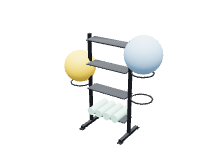
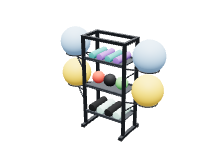
v2.24.0: 짐볼·폼롤러 거치대 새 모델(겹침 없음), 3D 기본 화면 WASD·방향키 이동, 기둥을 공간 단계로, 건물 밖 바닥 10종 추가, 슬라이더 끝까지 채움, 색 조명 밝기 보정·빛 번짐

Changed region(s): [[0.2727, 0.1515, 0.7636, 0.8788]]

diff --git a/js/ui.js b/js/ui.js
@@ -13,7 +13,7 @@ const IC = GP.IC = {
   select: sv('<path d="m4 3 7 17 2.5-7.5L21 10z"/>'), multi: sv('<rect x="3" y="3" width="8" height="8" rx="1.5"/><rect x="13" y="13" width="8" height="8" rx="1.5"/><path d="M13 7h4v4M7 13v4h4" stroke-dasharray="2 2"/>'),
   vertex: sv('<path d="M4 18 9 5l10 3-3 11z"/><circle cx="4" cy="18" r="1.8" fill="currentColor"/><circle cx="9" cy="5" r="1.8" fill="currentColor"/><circle cx="19" cy="8" r="1.8" fill="currentColor"/><circle cx="16" cy="19" r="1.8" fill="currentColor"/>'),
   wall: sv('<path d="M3 20V9h8v11M11 20V4h10v16"/><path d="M3 20h18"/>'), door: sv('<path d="M5 21V4h9v17"/><path d="M14 6a9 9 0 0 1 5 8"/><path d="M3 21h18"/><circle cx="11.5" cy="13" r=".8" fill="currentColor"/>'),
-  room: sv('<rect x="3" y="4" width="18" height="16" rx="1.5"/><path d="M7 9h6M7 13h4"/>'), ruler: sv('<path d="m3 17 14-14 4 4L7 21z"/><path d="m7 13 2 2M10 10l2 2M13 7l2 2"/>'), note: sv('<path d="M5 3h10l4 4v14H5z"/><path d="M15 3v4h4M8 12h8M8 16h5"/>'),
+  room: sv('<rect x="3" y="4" width="18" height="16" rx="1.5"/><path d="M7 9h6M7 13h4"/>'), pillar: sv('<rect x="8" y="4" width="8" height="16" rx=".8"/><path d="M5 20h14M5 4h14"/>'), ruler: sv('<path d="m3 17 14-14 4 4L7 21z"/><path d="m7 13 2 2M10 10l2 2M13 7l2 2"/>'), note: sv('<path d="M5 3h10l4 4v14H5z"/><path d="M15 3v4h4M8 12h8M8 16h5"/>'),
   fill: sv('<path d="M3 20h18"/><rect x="4" y="9" width="4" height="8"/><rect x="10" y="9" width="4" height="8"/><rect x="16" y="9" width="4" height="8"/><path d="M4 5h16" stroke-dasharray="2 2"/>'),
   matRect: sv('<rect x="3" y="5" width="18" height="14" rx="1"/><path d="M3 12h18M9 5v14M15 5v14"/>'), matPoly: sv('<path d="M4 19V8l6-4 10 4v11z"/><path d="M4 13h16M10 4v15M15 6v13"/>'),
   zone: sv('<rect x="3" y="4" width="18" height="16" rx="2" stroke-dasharray="3 3"/><path d="M8 12h8"/>'),
@@ -83,12 +83,19 @@ GP.tryOut = () => {
     undo() { if (!used) return; used = false; back(); LV.on = true; try { GP.changed('all', { commit: false }); } finally { LV.on = false; } },
   };
 };
+/* sliders: how far along the blue goes (CSS --f, 0..1) — kept up as they move, are drawn, or are set from code */
+const rFill = el => { const mn = +el.min || 0, mx = el.max === '' ? 100 : +el.max, v = +el.value; el.style.setProperty('--f', mx > mn ? Math.min(1, Math.max(0, (v - mn) / (mx - mn))) : 0); };
+GP.rangeFill = rFill;
+document.addEventListener('input', e => { if (e.target.type === 'range') rFill(e.target); }, true);
+document.addEventListener('change', e => { if (e.target.type === 'range') rFill(e.target); }, true);
+new MutationObserver(ms => { for (const m of ms) for (const n of m.addedNodes) if (n.nodeType === 1) { if (n.matches('input[type=range]')) rFill(n); else if (n.firstElementChild) n.querySelectorAll('input[type=range]').forEach(rFill); } }).observe(document.documentElement, { childList: true, subtree: true });
+document.addEventListener('DOMContentLoaded', () => document.querySelectorAll('input[type=range]').forEach(rFill));
 /* the number beside a slider: click it to type one (live too; beyond the slider's ends is fine) */
 document.addEventListener('click', e => {
   const b = e.target.closest('.rng > b'); if (!b || GP.viewOnly || b.parentElement.querySelector('.rng-in')) return; const r = b.parentElement.querySelector('input[type=range]'); if (!r || r.disabled) return;
   const v0 = r.value, inp = document.createElement('input'); inp.type = 'number'; inp.className = 'rng-in'; inp.step = r.step || 'any'; inp.value = r.value; inp.dataset.nolive = '';
   b.parentElement.appendChild(inp); b.style.visibility = 'hidden'; inp.focus(); inp.select(); let done = false;
-  const push = fin => { const v = parseFloat(inp.value); if (!isFinite(v)) return; if (v > +r.max) r.max = v; if (v < +r.min) r.min = v; r.value = v; r.dispatchEvent(new Event('input', { bubbles: true })); if (fin) r.dispatchEvent(new Event('change', { bubbles: true })); };
+  const push = fin => { const v = parseFloat(inp.value); if (!isFinite(v)) return; if (v > +r.max) r.max = v; if (v < +r.min) r.min = v; r.value = v; rFill(r); r.dispatchEvent(new Event('input', { bubbles: true })); if (fin) r.dispatchEvent(new Event('change', { bubbles: true })); };
   const end = ok => { if (done) return; done = true; if (!ok) { inp.value = v0; } push(true); inp.remove(); b.style.visibility = ''; };
   inp.addEventListener('input', () => { if (inp.value !== '' && !inp.validity.badInput) push(false); });
   inp.addEventListener('keydown', ev => { ev.stopPropagation(); if (ev.key === 'Enter') end(true); else if (ev.key === 'Escape') end(false); });
@@ -116,7 +123,7 @@ function cpkPaint(box, h, s, v, hex, k) {
   box.dataset.h = h; box.dataset.s = s; box.dataset.v = v; const sv = box.querySelector('.cpk-sv'), dot = sv.firstElementChild, hh = box.querySelector('.cpk-hue i'), hx = box.querySelector('.cpk-hex');
   sv.style.backgroundColor = `hsl(${h},100%,50%)`; dot.style.left = s * 100 + '%'; dot.style.top = (1 - v) * 100 + '%'; hh.style.left = h / 360 * 100 + '%';
   box.querySelector('.cpk-now').style.background = hex; if (document.activeElement !== hx) hx.value = hex.toUpperCase(); box.querySelector('.cpk-tag').textContent = k ? k + 'K' : '직접 고른 색';
-  const kr = box.querySelector('.cpk-kr'); if (kr) { if (k && document.activeElement !== kr) kr.value = k; const b = kr.parentElement.querySelector('b'); if (b) b.textContent = k ? k + 'K' : '—'; }
+  const kr = box.querySelector('.cpk-kr'); if (kr) { if (k && document.activeElement !== kr) { kr.value = k; rFill(kr); } const b = kr.parentElement.querySelector('b'); if (b) b.textContent = k ? k + 'K' : '—'; }
 }
 const cpkFire = (box, hex, live, k) => { const f = CPK.on[box.dataset.cpk]; if (!f || GP.viewOnly) return; LV.on = !!live; try { f(hex, !!live, k || 0); } finally { LV.on = false; } };
 const cpkHex = (box, hex, live, k) => { const [h, s, v] = rgb2hsv(...hex2rgb(hex)); cpkPaint(box, v && s ? h : +box.dataset.h, v ? s : +box.dataset.s, v, hex, k); cpkFire(box, hex, live, k); };
@@ -255,7 +262,7 @@ GP.on('selection', () => { ui.updateDistances(); GP.S.invalidate(); ui.renderIns
 
 /* ---------------- steps (tabs) & tools ---------------- */
 const STEP_TOOLS = {
-  space: [['select', '선택', 'select'], ['pen', '펜', 'pen'], ['vertex', '벽 모양', 'vertex'], ['xform', '크기 변형', 'xform'], ['part', '가벽', 'wall'], ['opening', '문·창문', 'door'], ['roomlabel', '공간 이름', 'room'], ['measure', '줄자', 'ruler'], ['note', '메모', 'note']],
+  space: [['select', '선택', 'select'], ['pen', '펜', 'pen'], ['vertex', '벽 모양', 'vertex'], ['xform', '크기 변형', 'xform'], ['part', '가벽', 'wall'], ['opening', '문·창문', 'door'], ['column', '기둥', 'pillar'], ['roomlabel', '공간 이름', 'room'], ['measure', '줄자', 'ruler'], ['note', '메모', 'note']],
   place: [['select', '선택', 'select'], ['multi', '여러 개', 'multi'], ['fillwall', '벽 채우기', 'fill'], ['measure', '줄자', 'ruler'], ['note', '메모', 'note']],
   floor: [['select', '선택', 'select'], ['matRect', '사각형', 'matRect'], ['matPoly', '모양대로', 'matPoly'], ['zoneRect', '존 표시', 'zone']],
 };
@@ -289,13 +296,13 @@ ui.renderGuideBits = () => {
   }
 };
 $('#stepNext') && $('#stepNext').addEventListener('click', e => { const b = e.target.closest('[data-next]'); if (!b) return; const n = b.dataset.next; if (n === 'quote') ui.openQuote(); else { if (n !== 'space' && GP.roomEmpty()) GP.toast('먼저 공간을 만들어 주세요. 가운데 「공간 만들기」에서 펜으로 그리거나 평수로 시작할 수 있어요', { bad: true, ms: 4500 }); ui.setStep(n); } $('#side .panel:not([hidden])') && ($('#side .panel:not([hidden])').scrollTop = 0); });
-GP.on('changed', () => ui.renderGuideBits()); GP.on('placing', () => ui.renderGuideBits()); GP.on('project', () => ui.renderGuideBits());
+GP.on('changed', () => ui.renderGuideBits()); GP.on('placing', () => { ui.renderGuideBits(); if (ui.renderTools) ui.renderTools(); }); GP.on('project', () => ui.renderGuideBits());
 ui.renderTools = () => {
   const t = $('#tools'); const list = STEP_TOOLS[ui.step] || [];
   t.hidden = !list.length || GP.viewOnly;
-  t.innerHTML = list.map(q => `<button class="tool${(ui.tool === q[0] || (q[0] === 'multi' && ui.multi)) ? ' on' : ''}" data-tool="${q[0]}" title="${q[1]}">${IC[q[2]]}<span>${q[1]}</span></button>`).join('');
+  t.innerHTML = list.map(q => `<button class="tool${(ui.tool === q[0] || (q[0] === 'multi' && ui.multi) || (q[0] === 'column' && ui.placing && ui.placing.list.some(p => p.it.type === 'column'))) ? ' on' : ''}" data-tool="${q[0]}" title="${q[1]}">${IC[q[2]]}<span>${q[1]}</span></button>`).join('');
 };
-$('#tools').addEventListener('click', e => { const b = e.target.closest('[data-tool]'); if (!b) return; const id = b.dataset.tool; if (id === 'multi') { ui.multi = !ui.multi; ui.setTool('select'); GP.toast(ui.multi ? '누르는 기구가 차례로 선택에 추가돼요' : '여러 개 선택을 껐어요'); return; } ui.setTool(ui.tool === id && id !== 'select' ? 'select' : id); });
+$('#tools').addEventListener('click', e => { const b = e.target.closest('[data-tool]'); if (!b) return; const id = b.dataset.tool; if (id === 'column') { GP.panels.putColumn(); return; } if (id === 'multi') { ui.multi = !ui.multi; ui.setTool('select'); GP.toast(ui.multi ? '누르는 기구가 차례로 선택에 추가돼요' : '여러 개 선택을 껐어요'); return; } ui.setTool(ui.tool === id && id !== 'select' ? 'select' : id); });
 ui.setTool = (id) => {
   if (['vertex', 'xform', 'opening', 'fillwall'].includes(id) && GP.roomEmpty && GP.roomEmpty()) { GP.toast('아직 공간이 없어요. 가운데 「공간 만들기」에서 먼저 만들어 주세요', { bad: true }); id = 'select'; }
   if (GP.tools) GP.tools.cancel();
@@ -358,8 +365,8 @@ const HINTS = {
   zoneRect: '<b>드래그</b>해서 존(유산소 존 등) 영역을 그려요',
   fillwall: '기구를 줄 세울 <b>벽을 클릭</b>하세요',
   placing: '<b>클릭</b>해서 놓기 · <kbd>R</kbd> 회전 · <kbd>Shift</kbd>+클릭 연속 배치 · <kbd>Alt</kbd> 자석 끄기',
-  select3d: '기구를 <b>눌러 선택</b>한 뒤 <b>끌면</b> 이동 · <kbd>R</kbd> 회전 · <kbd>Del</kbd> 삭제 · 빈 곳을 끌면 화면 회전',
-  other3d: '3D에서는 기구를 배치·이동할 수 있어요 · 벽·문·바닥은 <b>2D 도면</b>에서 고쳐요',
+  select3d: '<kbd>W</kbd><kbd>A</kbd><kbd>S</kbd><kbd>D</kbd>·방향키 이동 · <kbd>Q</kbd>/<kbd>E</kbd> 아래/위 · <kbd>Shift</kbd> 빨리 · 빈 곳을 끌면 회전 · 기구를 눌러 선택 → 끌어서 이동 · <kbd>R</kbd> 회전 · <kbd>Del</kbd> 삭제',
+  other3d: '<kbd>W</kbd><kbd>A</kbd><kbd>S</kbd><kbd>D</kbd>·방향키 이동 · <kbd>Q</kbd>/<kbd>E</kbd> 아래/위 · 끌면 회전 · 벽·문·바닥은 <b>2D 도면</b>에서 고쳐요',
   placing3d: '원하는 곳을 <b>눌러서</b> 놓기 · <kbd>R</kbd> 회전 · <kbd>Shift</kbd>+클릭 연속 배치',
 };
 ui.setHint = (custom) => {

diff --git a/js/view3d.js b/js/view3d.js
@@ -45,7 +45,7 @@ V3.resize = () => {
 };
 V3.invalidate = () => { dirty = true; };
 V3.camera = () => cam; V3.scene = () => sc;      // (tests)
-function loop() { raf = requestAnimationFrame(loop); if (V3.walking) walkStep(); else if (ctl.update()) dirty = true; if (!dirty) return; dirty = false; wallFade(); lightsFor(cam.position); skyAt(cam.position); lightMode(cam.position); R.render(sc, cam); }
+function loop() { raf = requestAnimationFrame(loop); if (V3.walking) walkStep(); else { if (keys.size) flyStep(); if (ctl.update()) dirty = true; } if (!dirty) return; dirty = false; wallFade(); lightsFor(cam.position); skyAt(cam.position); lightMode(cam.position); R.render(sc, cam); }
 
 /* ---------------- show / hide ---------------- */
 V3.show = (on) => {
@@ -133,7 +133,7 @@ function applyEnv() {
   sc.background.set(LINE ? '#F7F8F7' : '#E6E9E6');
   const l = (!LINE && d.light) || {}; V3.hemi.color.set(l.sky || '#ffffff'); V3.hemi.groundColor.set(l.gnd || '#8d9399'); V3.hemi.intensity = l.hi ?? .42; V3.dir.color.set(l.sun || '#ffffff'); V3.dir.intensity = l.si ?? .9;
   for (const gd of GP.ENV_GROUND) { const m = matCache['ground:' + gd.id]; if (m) m.color.setScalar(l.gm ?? 1); }
-  { const Lt = GP.lightOf(GP.P.settings); if (matCache['lt:e']) matCache['lt:e'].color.set(Lt.glow).multiplyScalar(.3 + .7 * Math.min(1, Lt.lum)); }      // turned down: the fixtures look dimmer too
+  { const Lt = GP.lightOf(GP.P.settings); if (matCache['lt:e']) matCache['lt:e'].color.set(glowHex(Lt)).multiplyScalar(.3 + .7 * Math.min(1, Lt.lum)); const hm = matCache['lt:halo']; if (hm) { hm.color.set(Lt.glow); hm.opacity = .5 * Math.min(1, Lt.lum); } }      // turned down: the fixtures look dimmer too
   lmKey = '';      // a dark sky, a dark ground
   dirty = true;
 }
@@ -165,6 +165,10 @@ const pickSpots = (sp, n) => {      // n of them spread over the room: the one n
    glass (the ceiling then casts the sun's shadow). From above or outside it stays bright so the layout reads. */
 let ceilRef = null, roomH = 0, lmKey = '', lmT = 0;
 const mixHex = (a, b, t) => '#' + new THREE.Color(a).lerp(new THREE.Color(b), t).getHexString();
+const lumOf = hex => { const c = new THREE.Color(hex); return .2126 * c.r + .7152 * c.g + .0722 * c.b; };      // how bright a colour looks (linear)
+/* the glow of a fixture as shown: its colour lifted a little towards white (a lit LED's core), dimmer when turned down */
+const glowHex = (Lt) => mixHex(Lt.glow, '#ffffff', .18);
+function haloTex() { return mat('haloTex', () => { const c = document.createElement('canvas'); c.width = c.height = 128; const x = c.getContext('2d'), g = x.createRadialGradient(64, 64, 0, 64, 64, 64); g.addColorStop(0, 'rgba(255,255,255,.9)'); g.addColorStop(.25, 'rgba(255,255,255,.45)'); g.addColorStop(.6, 'rgba(255,255,255,.12)'); g.addColorStop(1, 'rgba(255,255,255,0)'); x.fillStyle = g; x.fillRect(0, 0, 128, 128); const t = new THREE.CanvasTexture(c); t.encoding = THREE.sRGBEncoding; return t; }); }
 function lightMode(pos) {
   if (!GP.P || !V3.hemi) return; const st = GP.P.settings, Lt = GP.lightOf(st), E = GP.envOf(st), sky = (!LINE && E.sky.light) || {};
   const inside = !LINE && !V3.cut && !!ceilRef && (V3.walking || (pos.y < roomH - .05 && G.pip(pos.x, pos.z, GP.L().room.pts)));
@@ -173,9 +177,10 @@ function lightMode(pos) {
   if (key === lmKey && !(A !== 1 && now - lmT > 400)) return;      // (while dimmed, now and then again: machines loaded since get it too)
   const fresh = key !== lmKey; lmKey = key; lmT = now; V3.lightLevel = A;
   if (fresh) {
-    V3.hemi.color.set(inside && F > 0 ? mixHex(sky.sky || '#ffffff', Lt.glow, .5) : (sky.sky || '#ffffff')); V3.hemi.intensity = (sky.hi ?? .42) * A;
+    const tint = inside && F > 0 ? mixHex(sky.sky || '#ffffff', Lt.glow, .5) : (sky.sky || '#ffffff'), comp = inside && F > 0 ? Math.min(1.8, lumOf(sky.sky || '#ffffff') / Math.max(.3, lumOf(tint))) : 1;
+    V3.hemi.color.set(tint); V3.hemi.intensity = (sky.hi ?? .42) * A * comp;
     ptl.forEach(p => { p.intensity = 0; });
-    if (pts) { const P = GP.L().room.pts, ch = pickSpots(lightRef.spots, ptl.length), cell = Math.sqrt(Math.abs(G.area(P)) / ch.length); ch.forEach((s, k) => { const p = ptl[k]; p.position.set(s.p[0], lightRef.H - .35, s.p[1]); p.color.set(Lt.glow); p.intensity = 1.5 * F; p.distance = Math.max(4.2, cell * 1.35); }); }      // the light pools
+    if (pts) { const P = GP.L().room.pts, ch = pickSpots(lightRef.spots, ptl.length), cell = Math.sqrt(Math.abs(G.area(P)) / ch.length); ch.forEach((s, k) => { const p = ptl[k]; p.position.set(s.p[0], lightRef.H - .35, s.p[1]); p.color.set(Lt.glow); p.intensity = 1.5 * F * Math.min(3, Math.pow(1 / Math.max(.2, lumOf(Lt.glow)), .7)); p.distance = Math.max(4.2, cell * 1.35); }); }      // the light pools
     if (ceilRef) { ceilRef.castShadow = inside; const m = ceilRef.material; if (m.userData.base) m.color.copy(m.userData.base).multiplyScalar(inside ? Math.min(1, .06 + A * .94) : 1); }
   }
   sc.traverse(o => { const m = o.material; if (!m) return; for (const q of Array.isArray(m) ? m : [m]) if (q.isMeshStandardMaterial && q.envMapIntensity !== A) q.envMapIntensity = A; });
@@ -209,13 +214,19 @@ function lightSpots(P, d, gap) {
 function buildLights(g, P, H, st) {
   const L = GP.lightOf(st); if (L.d.id === 'none') return; const spots = lightSpots(P, L.d, L.gap); if (!spots.length) return;
   const body = GP.LIGHT_BODY[L.body];
-  const em = mat('lt:e', () => new THREE.MeshBasicMaterial({ color: L.glow, toneMapped: false })); em.color.set(L.glow).multiplyScalar(.3 + .7 * Math.min(1, L.lum));      // one glow, recoloured in place (a colour being dragged does not make new materials)
+  const em = mat('lt:e', () => new THREE.MeshBasicMaterial({ color: L.glow, toneMapped: false })); em.color.set(glowHex(L)).multiplyScalar(.3 + .7 * Math.min(1, L.lum));      // one glow, recoloured in place (a colour being dragged does not make new materials)
   const hm = mat('lt:h:' + L.body, () => std(body.c, { metalness: body.m, roughness: body.r }));
   const holder = new THREE.Group(); holder.userData.own = true; g.add(holder); lightRef = { holder, H, top: L.top, spots };
   lightScene(L.d.id).then(scene => {
     if (!holder.parent) return;      // built again since
     const proto = scene.clone(true); proto.traverse(n => { if (!n.isMesh) return; const nm = (n.material && n.material.name) || ''; if (/lemit/.test(nm)) n.material = em; else if (/lhouse/.test(nm)) n.material = hm; n.castShadow = false; n.receiveShadow = false; });
-    for (const s of spots) { const o = proto.clone(true); o.position.set(s.p[0], H, s.p[1]); o.rotation.y = s.rot; holder.add(o); }
+    const eb = new THREE.Box3(); proto.updateMatrixWorld(true); proto.traverse(n => { if (n.isMesh && n.material === em) eb.expandByObject(n); });
+    const hc = eb.isEmpty() ? null : eb.getCenter(new THREE.Vector3()), hsz = hc ? Math.max(eb.max.x - eb.min.x, eb.max.z - eb.min.z) * 1.5 + .45 : 0, Y = new THREE.Vector3(0, 1, 0);
+    const halo = hc && mat('lt:halo', () => new THREE.SpriteMaterial({ map: haloTex(), color: L.glow, blending: THREE.AdditiveBlending, transparent: true, depthWrite: false, toneMapped: false, opacity: .5 })); if (halo) { halo.color.set(L.glow); halo.opacity = .5 * Math.min(1, L.lum); }
+    for (const s of spots) {
+      const o = proto.clone(true); o.position.set(s.p[0], H, s.p[1]); o.rotation.y = s.rot; holder.add(o);
+      if (halo) { const sp = new THREE.Sprite(halo), c = hc.clone().applyAxisAngle(Y, s.rot); sp.position.set(s.p[0] + c.x, H + c.y - .03, s.p[1] + c.z); sp.scale.setScalar(hsz); sp.renderOrder = 2; holder.add(sp); }
+    }
     dirty = true;
   }).catch(() => { });
 }
@@ -756,7 +767,27 @@ window.addEventListener('keydown', e => {
   const k = e.key.toLowerCase(); if (k === 'escape') { V3.walk(false); e.preventDefault(); e.stopImmediatePropagation(); return; }
   if (['w', 'a', 's', 'd', 'arrowup', 'arrowdown', 'arrowleft', 'arrowright', 'shift'].includes(k)) { keys.add(k); e.preventDefault(); e.stopImmediatePropagation(); }
 }, true);
-window.addEventListener('keyup', e => keys.delete(e.key.toLowerCase()));
+/* the ordinary 3D view: W A S D / arrows move along the floor the way the camera looks (the turning point comes along),
+   Q / E down / up, Shift faster; the mouse still turns, pans and zooms. With machines picked, the arrows nudge them and Q / E
+   turn them, as before. */
+const FLY = ['w', 'a', 's', 'd', 'arrowup', 'arrowdown', 'arrowleft', 'arrowright', 'q', 'e'];
+let lastF = 0;
+window.addEventListener('keydown', e => {
+  if (!V3.on || V3.walking || !R || e.ctrlKey || e.metaKey || e.altKey) return; const tag = (e.target.tagName || '').toLowerCase(); if (tag === 'input' || tag === 'textarea' || tag === 'select' || e.target.isContentEditable) return;
+  const k = e.key.toLowerCase(); if (k === 'shift') { keys.add(k); return; } if (!FLY.includes(k)) return;
+  if ((k.startsWith('arrow') || k === 'q' || k === 'e') && GP.ui.sel && GP.ui.sel.length) return;      // picked machines: nudge / turn them
+  keys.add(k); e.preventDefault(); e.stopImmediatePropagation();
+}, true);
+function flyStep() {
+  let f = 0, s = 0, u = 0; if (keys.has('w') || keys.has('arrowup')) f++; if (keys.has('s') || keys.has('arrowdown')) f--; if (keys.has('a') || keys.has('arrowleft')) s--; if (keys.has('d') || keys.has('arrowright')) s++; if (keys.has('e')) u++; if (keys.has('q')) u--;
+  const t = performance.now(); if (!f && !s && !u) { lastF = 0; return; } const dt = Math.min(.05, (t - (lastF || t - 16)) / 1000); lastF = t;
+  const dir = new THREE.Vector3().subVectors(ctl.target, cam.position); dir.y = 0; if (dir.lengthSq() < 1e-8) dir.set(0, 0, -1); dir.normalize();
+  const right = new THREE.Vector3(-dir.z, 0, dir.x), dist = cam.position.distanceTo(ctl.target), sp = U.clamp(dist * .6, 2.5, 30) * (keys.has('shift') ? 2.5 : 1) * dt;
+  const mv = dir.multiplyScalar(f * sp).add(right.multiplyScalar(s * sp)); mv.y = u * sp;
+  cam.position.add(mv); ctl.target.add(mv); if (cam.position.y < .25) { const d = .25 - cam.position.y; cam.position.y += d; ctl.target.y += d; }
+  dirty = true; GP.tip.hide();
+}
+window.addEventListener('keyup', e => { keys.delete(e.key.toLowerCase()); if (!keys.size) lastF = 0; });
 window.addEventListener('blur', () => keys.clear());
 
 /* ---------------- snapshots for images / PDF ---------------- */

diff --git a/js/panels.js b/js/panels.js
@@ -26,6 +26,10 @@ GP.cpk.on.ltColor = (hex, live, k) => {      // the light's colour: live = only 
   const st = GP.P.settings, l = st.light = Object.assign({}, st.light || {}); l.color = hex; if (k) l.k = k; else delete l.k; delete l.tone;
   GP.changed(live ? 'env3d' : 'settings', live ? { commit: false } : undefined);
 };
+panels.putColumn = () => {      // the space step's column tool: place columns of the chosen size, staying in the space step
+  if (GP.viewOnly) return; if (GP.roomEmpty && GP.roomEmpty()) { GP.toast('아직 공간이 없어요. 공간을 먼저 만들어 주세요', { bad: true }); return; }
+  const s = panels.colSize || .6; GP.tools.startPlacing([{ it: { type: 'column', w: s, d: s } }], { stay: true }); GP.toast(`도면을 눌러 기둥(${Math.round(s * 100)}각)을 놓아요 · Shift+클릭 여러 개 · Esc 끝`, { ms: 3500 });
+};
 panels.renderSpace = () => {
   if (GP.liveWait('space', $('#panel-space'), panels.renderSpace)) return;
   const P = GP.P, st = P.settings, L = GP.L(), A = Math.abs(G.area(L.room.pts));
@@ -36,6 +40,10 @@ panels.renderSpace = () => {
   el.innerHTML = `<p class="lead">고객 매장의 벽 모양과 크기를 만들어요. 문·창문·가벽은 도면 위 도구로 넣어요.</p>
   ${fold('make', '공간 만들기', L.room.empty ? '아직 없음' : `${(A / U.PY).toFixed(1)}평 · ${U.r2(bb.sx)}×${U.r2(bb.sz)}m`, `<div class="row2" style="margin-bottom:8px"><button class="btn soft" data-pen="1" title="클릭: 모서리 · 누른 채 끌기: 곡선">${IC.pen}펜으로 그리기</button><button class="btn soft" data-xform="1" title="공간 전체를 상자 손잡이로 키우기 · 줄이기 · 돌리기 (T)">${IC.xform}크기 변형 <kbd>T</kbd></button></div><button class="btn ghost sm" data-clearroom="1" style="margin:-2px 0 8px;align-self:flex-start">벽 비우고 처음부터 그리기</button><div class="seg full" id="spMode"><button data-m="py" class="${sp.mode === 'py' ? 'on' : ''}">평수로</button><button data-m="shape" class="${sp.mode === 'shape' ? 'on' : ''}">모양 템플릿</button><button data-m="walk" class="${sp.mode === 'walk' ? 'on' : ''}">실측 입력</button></div>
     <div id="spBody" class="blk" style="border:0;padding:0"></div>`)}
+  ${(() => { const cols = L.items.filter(it => it.type === 'column'), cs = panels.colSize || .6; return fold('column', '기둥', cols.length ? cols.length + '개' : '없음', `<p class="note" style="margin:0">매장 안의 구조 기둥이에요(견적에는 안 들어가요). 크기를 고르고 「기둥 넣기」를 누른 뒤 도면을 눌러 놓아요(<kbd>Shift</kbd>+클릭 여러 개). 놓은 기둥을 누르면 크기 · 색 · 모서리 보호대를 고쳐요.</p>
+    <div class="rng"><span>크기</span><div class="seg sm">${[.4, .5, .6, .8].map(s => `<button data-colsz="${s}" class="${Math.abs(cs - s) < .001 ? 'on' : ''}">${Math.round(s * 100)}각</button>`).join('')}</div></div>
+    <div class="acts" style="margin:0"><button class="btn sm primary" data-colput="1">${GP.IC.pillar} 기둥 넣기</button></div>
+    ${cols.length ? `<div class="col-list">${cols.map((it, k) => { const d = GP.dims(it); return `<div class="col-r"><b>기둥 ${k + 1}</b><span>${U.cm(d.w)} × ${U.cm(d.d)} cm</span><button class="btn xs" data-colsel="${it.uid}">선택</button><button class="icon-btn sm" data-coldel="${it.uid}" title="이 기둥 지우기">✕</button></div>`; }).join('')}</div>` : ''}`); })()}
   ${fold('finish', '벽 · 바닥 · 천장 마감', `${ui.texName(st.floorBase)} · ${ui.texName(st.wallTex || 'paint')} · ${((GP.TEX.ceil.find(t => t.id === (st.ceilTex || 'paint')) || {}).name || '흰 도장')}`, `<p class="note" style="margin:0">3D 보기와 제안서 3D 그림에 보여요. 바닥 무늬는 도면에도 연하게 보여요. 벽마다 다르게 하려면 도면에서 벽을 누르세요. 「색감 조절」로 밝기 · 대비 · 채도 · 색감을 바꿀 수 있어요.</p>
     <span class="lbl">바닥</span>${ui.texGrid('floor', st.floorBase)}${ui.adjBlock('floor')}
     <span class="lbl">벽 (모든 벽)</span>${ui.texGrid('wall', st.wallTex || 'paint')}${ui.adjBlock('wall')}
@@ -115,6 +123,10 @@ panels.renderUL = renderUL;
 const spEl = $('#panel-space');
 spEl.addEventListener('click', e => {
   const t = e.target; if (t.closest('[data-xform]')) { ui.setTool('xform'); return; }
+  { const cz = t.closest('[data-colsz]'); if (cz) { panels.colSize = +cz.dataset.colsz; panels.renderSpace(); return; } }
+  if (t.closest('[data-colput]')) { panels.putColumn(); return; }
+  { const cl = t.closest('[data-colsel]'); if (cl) { ui.select([{ k: 'item', id: cl.dataset.colsel }]); return; } }
+  { const cd = t.closest('[data-coldel]'); if (cd) { const L = GP.L(); L.items = L.items.filter(it => it.uid !== cd.dataset.coldel); ui.clearSel(); GP.changed('items'); panels.renderSpace(); GP.toast('기둥을 지웠어요 (Ctrl+Z로 되돌리기)'); return; } }
   { const eb = t.closest('[data-envsky],[data-envground]'); if (eb) { const st = GP.P.settings, en = st.env = Object.assign({}, st.env || {}); if (eb.dataset.envsky) en.sky = eb.dataset.envsky; if (eb.dataset.envground) en.ground = eb.dataset.envground; GP.changed(eb.dataset.envsky ? ['env3d', 'settings'] : ['room3d', 'settings']); panels.renderSpace(); if (!(GP.V3 && GP.V3.on)) GP.toast('배경은 3D 보기에서 보여요', { ms: 2500 }); return; } }
   { const lb = t.closest('[data-light],[data-ltone],[data-lbody]'); if (lb) { const st = GP.P.settings, l = st.light = Object.assign({}, st.light || {}); if (lb.dataset.light) { l.type = lb.dataset.light; delete l.gap; } if (lb.dataset.ltone) l.tone = lb.dataset.ltone; if (lb.dataset.lbody) l.body = lb.dataset.lbody; GP.changed('settings'); panels.renderSpace(); if (!(GP.V3 && GP.V3.on)) GP.toast('조명은 3D 보기에서 보여요', { ms: 2500 }); return; } }
   if (t.closest('[data-clearroom]')) { GP.tools.clearRoom(true); return; }
@@ -215,7 +227,9 @@ function renderGrid() {
   if (q) list = list.filter(k => { const d = GP.getDef(k); return (GP.typeName(k) + d.name + (d.kw || '')).toLowerCase().replace(/\s+/g, '').includes(q); });
   else if (pl.cat === 'fav') { const fav = GP.lib.favorites.filter(k => GP.getDef(k)); const rec = panels.recent.filter(k => GP.getDef(k) && !fav.includes(k)); list = fav.concat(rec); }
   else list = list.filter(k => GP.getDef(k).cat === pl.cat);
+  list = list.filter(k => k !== 'column');      // (columns are part of the space: the space step has them)
   let html = list.map(k => card(k)).join('');
+  if (q && /기둥|column|pillar/.test(q)) html = `<p class="empty" style="grid-column:1/-1">기둥은 「공간」 단계에서 넣어요. <button class="btn xs" data-gocol="1">공간 단계 · 기둥</button></p>` + html;
   if (pl.cat === 'custom' || pl.cat === 'special') html = `<button class="card" data-build="1"><span class="thumb" style="display:grid;place-items:center;color:var(--ink-2)">${IC.build}</span><span class="c-name"><span>직접 조립해서 만들기</span></span><span class="c-size">상자·원기둥 조합</span></button>` + html;
   if (pl.cat === 'fav' && !q && !list.length) html = '<p class="empty">기구 카드의 ★를 누르면 여기에 모여요.</p>';
   g.innerHTML = html || '<p class="empty">찾는 기구가 없어요. 다른 이름으로 검색해 보세요.</p>';
@@ -229,6 +243,7 @@ plEl.addEventListener('input', e => { if (e.target.id === 'plQ') { pl.q = e.targ
 plEl.addEventListener('click', e => {
   const t = e.target;
   const fv = t.closest('[data-fav]'); if (fv) { e.stopPropagation(); const k = fv.dataset.fav, f = GP.lib.favorites, i = f.indexOf(k); if (i >= 0) f.splice(i, 1); else f.unshift(k); GP.saveLib(); renderGrid(); return; }
+  if (t.closest('[data-gocol]')) { ui.setStep('space'); panels.openFold('column'); panels.renderSpace(); return; }
   const gb = t.closest('#plGroups [data-grp]'); if (gb) { const g = PL_GROUPS.find(x => x.id === gb.dataset.grp); if (g && !g.cats.includes(pl.cat)) { pl.cat = g.cats[0]; pl.q = ''; panels.renderPlace(); } return; }
   const c = t.closest('#plCats [data-cat]'); if (c) { pl.cat = c.dataset.cat; pl.q = ''; panels.renderPlace(); return; }
   const sd = t.closest('[data-setdel]'); if (sd) { e.stopPropagation(); GP.lib.sets = GP.lib.sets.filter(s => s.id !== sd.dataset.setdel); GP.saveLib(); renderGrid(); return; }

diff --git a/css/app.css b/css/app.css
@@ -623,6 +623,12 @@ details.more>summary{cursor:pointer;font-size:12px;font-weight:600;color:var(--i
 .empty-room.compact{inset:auto;left:50%;top:12px;transform:translateX(-50%);display:block;background:none;backdrop-filter:none;width:max-content;max-width:calc(100% - 24px)}
 .empty-room.compact .er-card{flex-direction:row;width:auto;padding:8px 10px;gap:10px;border-color:var(--accent)}.empty-room.compact .er-ic,.empty-room.compact .er-d{display:none}.empty-room.compact .er-main{width:auto;padding:6px 12px}.empty-room.compact .er-row{width:auto}
 .arc-sec .seg.full button{flex:1;font-size:12px}.rng .seg{display:flex;grid-column:2/4}.rng .seg button{flex:1;font-size:11.5px;padding:4px 2px}
+input[type=range]{-webkit-appearance:none;appearance:none;height:20px;background:transparent;cursor:pointer;--f:.5;min-width:0}
+input[type=range]:focus{outline:none}input[type=range]:focus-visible::-webkit-slider-thumb{box-shadow:0 0 0 3px var(--accent-soft)}
+input[type=range]::-webkit-slider-runnable-track{height:6px;border-radius:3px;background:linear-gradient(to right,var(--accent) 0,var(--accent) calc(8px + (100% - 16px) * var(--f)),var(--line-2) calc(8px + (100% - 16px) * var(--f)),var(--line-2) 100%)}
+input[type=range]::-webkit-slider-thumb{-webkit-appearance:none;width:16px;height:16px;margin-top:-5px;border-radius:50%;background:#fff;border:2px solid var(--accent);box-shadow:0 1px 3px rgba(0,0,0,.25)}
+input[type=range]::-moz-range-track{height:6px;border-radius:3px;background:var(--line-2)}input[type=range]::-moz-range-progress{height:6px;border-radius:3px;background:var(--accent)}
+input[type=range]::-moz-range-thumb{width:12px;height:12px;border-radius:50%;background:#fff;border:2px solid var(--accent)}
 .rng{display:grid;grid-template-columns:58px minmax(0,1fr) 74px;align-items:center;gap:8px;font-size:12.5px;color:var(--ink-2)}.rng input[type=range]{width:100%;margin:0}.rng b{font:600 12px var(--f-mono);color:var(--ink);text-align:right;white-space:nowrap;overflow:hidden;text-overflow:ellipsis}
 .hd.arcp{width:20px;height:20px;background:none;border:0;box-shadow:none;cursor:grab}.hd.arca{width:12px;height:12px;background:#fff;border:2px solid #E0622B;cursor:move}.hd.arcr{width:10px;height:10px;background:#fff;border:2px solid #E0622B;border-radius:2px;cursor:ew-resize}.hd.arcp::before{content:'';position:absolute;inset:4px;border-radius:2px;background:#E0622B;border:2px solid #fff;box-shadow:0 0 0 1px #E0622B,0 1px 3px rgba(0,0,0,.3);transform:rotate(45deg)}      /* (the diamond turns inside: turning the handle itself would turn its placement too) */
 .hd.cgm{width:auto;height:auto;padding:1px 7px;border-radius:9px;background:#3B7FC4;border:0;color:#fff;font:600 11px/16px var(--f-ui,inherit);white-space:nowrap;cursor:move}.hd.cge{border-color:#E0622B}
@@ -632,6 +638,7 @@ details.more>summary{cursor:pointer;font-size:12px;font-weight:600;color:var(--i
 .env-grid{display:grid;grid-template-columns:repeat(4,1fr);gap:6px}.env-grid.g5{grid-template-columns:repeat(5,1fr)}.env-card{display:flex;flex-direction:column;align-items:stretch;gap:3px;padding:3px;border:1px solid var(--line);border-radius:9px;background:var(--panel);font-size:11px;color:var(--ink-2);cursor:pointer;min-width:0}.env-card i{display:grid;place-items:center;aspect-ratio:2/1;border-radius:6px;background:var(--panel-2);font-style:normal;color:var(--muted)}.env-grid.g5 .env-card i{aspect-ratio:1}.env-card span{text-align:center;white-space:nowrap;overflow:hidden;text-overflow:ellipsis}.env-card.on{border-color:var(--accent);box-shadow:0 0 0 2px var(--accent-soft);color:var(--ink)}
 .fld.lt-top{flex-direction:row;align-items:flex-start;gap:8px;margin-top:2px;cursor:pointer}.fld.lt-top input{width:auto;flex:none;margin-top:2px}.fld.lt-top span{display:flex;flex-direction:column;gap:1px;margin:0}.fld.lt-top b{font-weight:600;color:var(--ink);font-size:12.5px}.fld.lt-top small{font-size:11.5px}
 .cpk{display:flex;flex-direction:column;gap:7px}.cpk-sv{position:relative;height:118px;border-radius:8px;cursor:crosshair;touch-action:none;background-image:linear-gradient(to top,#000,rgba(0,0,0,0)),linear-gradient(to right,#fff,rgba(255,255,255,0));box-shadow:inset 0 0 0 1px rgba(0,0,0,.12)}.cpk-sv i{position:absolute;width:12px;height:12px;margin:-6px 0 0 -6px;border:2px solid #fff;border-radius:50%;box-shadow:0 0 0 1px rgba(0,0,0,.45);pointer-events:none}.cpk-hue{position:relative;height:12px;border-radius:6px;cursor:pointer;touch-action:none;background:linear-gradient(to right,#f00 0%,#ff0 17%,#0f0 33%,#0ff 50%,#00f 67%,#f0f 83%,#f00 100%)}.cpk-hue i{position:absolute;top:-2px;width:8px;height:16px;margin-left:-4px;border-radius:3px;background:#fff;box-shadow:0 0 0 1px rgba(0,0,0,.4);pointer-events:none}.cpk-row{display:flex;align-items:center;gap:6px}.cpk-now{width:26px;height:26px;border-radius:6px;border:1px solid var(--line);flex:none}.cpk-hex{width:84px;padding:4px 6px;border:1px solid var(--line);border-radius:6px;font:600 12px var(--f-mono);background:var(--panel);color:var(--ink)}.cpk-tag{font-size:11.5px;color:var(--muted);white-space:nowrap}.cpk-pre{display:grid;grid-template-columns:repeat(8,1fr);gap:4px}.cpk-pre button{aspect-ratio:1;border-radius:5px;border:1px solid rgba(0,0,0,.18);cursor:pointer;padding:0}.cpk-pre button:hover{transform:scale(1.12)}
+.col-list{display:flex;flex-direction:column;gap:4px;margin-top:2px}.col-r{display:grid;grid-template-columns:auto 1fr auto auto;align-items:center;gap:6px;font-size:12px}.col-r b{font-weight:600;color:var(--ink-2)}.col-r span{color:var(--muted);font-family:var(--f-mono)}
 .lt-grid{display:grid;grid-template-columns:repeat(3,1fr);gap:6px}.lt-card{display:flex;flex-direction:column;align-items:center;gap:3px;padding:4px;border:1px solid var(--line);border-radius:9px;background:var(--panel);font-size:11px;color:var(--ink-2);cursor:pointer}.lt-card img{width:100%;aspect-ratio:1;object-fit:cover;border-radius:6px;background:#5c5e60}.lt-card .lt-none{width:100%;aspect-ratio:1;display:grid;place-items:center;border-radius:6px;background:var(--panel-2);font-style:normal;font-size:20px;color:var(--muted)}.lt-card.on{border-color:var(--accent);box-shadow:0 0 0 2px var(--accent-soft);color:var(--ink)}
 .tex-adj{font-size:12.5px}.tex-adj>summary{cursor:pointer;color:var(--ink-2);padding:2px 0}.tex-adj>summary em{font-style:normal;color:var(--accent);font-size:11px;margin-left:4px}.tex-adj .rng{margin-top:6px}.tex-adj .btn{margin-top:6px}
 .pl-lead{display:flex;align-items:center;gap:7px;margin:0;font-size:12.5px;color:var(--muted)}

diff --git a/js/catalog.js b/js/catalog.js
@@ -91,13 +91,15 @@ GP.ENV_SKY = [
   { id: 'dusk', name: '저녁 도시', day: 0.55, pano: 'sunset_jhbcentral', light: { sky: '#ffe4cc', gnd: '#6f6670', sun: '#ffc48a', si: .8, hi: .4, gm: .75 } },
   { id: 'citynight', name: '밤 거리', day: 0.12, pano: 'hansaplatz', light: { sky: '#a6b2d4', gnd: '#3b3a3c', sun: '#ffd9a8', si: .35, hi: .34, gm: .4 } },
 ];
-GP.ENV_GROUND = [{ id: 'none', name: '없음' }, { id: 'pavers', name: '보도블록', size: 1.92 }, { id: 'brick', name: '벽돌 보도', size: 2 }, { id: 'asphalt', name: '아스팔트', size: 30 }, { id: 'grass', name: '잔디', size: 2 }];
+GP.ENV_GROUND = [{ id: 'none', name: '없음' }, { id: 'pavers', name: '보도블록', size: 1.92 }, { id: 'brick', name: '벽돌 보도', size: 2 }, { id: 'asphalt', name: '아스팔트', size: 30 }, { id: 'grass', name: '잔디', size: 2 },
+  { id: 'paving2', name: '패턴 보도', size: 2 }, { id: 'cobble', name: '돌길', size: 1.5 }, { id: 'granite', name: '화강석', size: 2.3 }, { id: 'concrete', name: '콘크리트', size: 2 }, { id: 'gravel', name: '자갈', size: 2.16 },
+  { id: 'sand', name: '모래', size: 15 }, { id: 'forest', name: '흙 · 숲길', size: 3.15 }, { id: 'drygrass', name: '마른 잔디', size: 2 }, { id: 'snow', name: '눈', size: 2 }, { id: 'deck', name: '나무 데크', size: 1.8 }];
 GP.envOf = st => { const e = (st && st.env) || {}; return { sky: GP.ENV_SKY.find(q => q.id === e.sky) || GP.ENV_SKY[0], ground: GP.ENV_GROUND.find(q => q.id === e.ground) || GP.ENV_GROUND[0], rot: +e.rot || 0 }; };
 GP.envGrad = d => d.g ? 'linear-gradient(to bottom,' + d.g.filter(s => s[0] <= .56).map(([o, c]) => `${c} ${Math.round(o / .56 * 100)}%`).join(',') + ')' : 'linear-gradient(#eef0ee,#dfe3df)';
 /* glass walls: the width of one pane (m) unless one is chosen; 0 = one pane, no posts between */
 GP.GLASS_GW = 2;
 GP.gwVal = v => !(v >= .45) ? 0 : Math.min(12, Math.max(.5, Math.round(v * 10) / 10));
-GP.gwTxt = v => v > 0 ? v.toFixed(1) + ' m마다' : '나누지 않음';
+GP.gwTxt = v => v > 0 ? v.toFixed(1) + ' m' : '안 나눔';
 /* ceiling lights (dev/blender/hq_lights.py → models/light/<id>.glb, picture assets/light/<id>.png): a design, the light's colour and
    the body's colour (the files name the parts g_lhouse / g_lemit), set out on the ceiling every `gap` m; line = its length when it
    runs in rows */
@@ -254,7 +256,7 @@ T('sled', '슬레드', 'func', 0.66, 0.94, 0.78, [2, 0.5, 0.2, 0.2], {heavy:true
 T('plyobox', '플라이오 박스', 'func', 0.76, 0.6, 0.5, [0.8, 0.8, 0.3, 0.3], {kw:'플라이오 점프 박스 plyo box'});
 T('battlerope', '배틀로프', 'func', 0.6, 5, 0.2, [1.2, 0, 0.5, 0.5], {flat:true,kw:'배틀로프 로프 battle rope'});
 T('stretchzone', '스트레칭 존', 'func', 3, 2, 0.02, [0, 0, 0, 0], {flat:true,fit:'actual',kw:'스트레칭 매트 요가 stretch'});
-T('ballrack', '짐볼·폼롤러 거치대', 'func', 1.82, 0.64, 1.82, [0.6, 0, 0.2, 0.2], {kw:'짐볼 폼롤러 거치대'});
+T('ballrack', '짐볼·폼롤러 거치대', 'func', 1.97, 0.61, 1.75, [0.6, 0, 0.2, 0.2], {kw:'짐볼 폼롤러 거치대'});
 T('sandbag', '샌드백', 'func', 0.36, 0.36, 1.8, [0.8, 0.8, 0.8, 0.8], {mount:'ceil',kw:'샌드백 복싱 sandbag'});
 T('stretchmachine', '스트레칭 머신', 'stretch', 0.87, 1.66, 1.86, [0.6, 0.3, 0.4, 0.4], {pw:100,kw:'스트레칭 머신 고플렉스'});
 T('mirror_t', '스트레칭 미러 (T형)', 'stretch', 1.46, 1.46, 2.09, [0.8, 0.1, 0.1, 0.1], {pw:200,kw:'미러 스트레칭 부스 T'});

diff --git a/sw.js b/sw.js
@@ -4,7 +4,7 @@
                       not have yet (about 20 MB stayed put instead of being fetched again each time). They are still asked for
                       from the site first, so a changed picture or model arrives when online.
    MODELS (kept)      3D libraries and files that never change under the same address: cache first. */
-const CACHE = 'gofit-planner-v3.25.0', ASSETS = 'gofit-assets-v1', MODELS = 'gofit-models-v2';
+const CACHE = 'gofit-planner-v3.26.0', ASSETS = 'gofit-assets-v1', MODELS = 'gofit-models-v2';
 const FILES = [
   './', 'index.html', 'manifest.webmanifest', 'css/app.css',
   'js/core.js', 'js/catalog.js', 'js/media.js', 'vendor/three.min.js', 'vendor/OrbitControls.js', 'js/m3-parts.js', 'js/m3-models-a.js', 'js/m3-models-b.js', 'js/render3d.js', 'js/symbols.js', 'js/plan.js', 'js/checks.js', 'js/ui.js', 'js/overlay.js', 'js/tools.js', 'js/pen.js', 'js/panels.js', 'js/export.js', 'js/viewer3d.js', 'js/view3d.js', 'js/backup.js', 'js/wizard.js', 'js/app.js',

diff --git a/js/tools.js b/js/tools.js
@@ -222,8 +222,9 @@ const canvas = () => GP.S.canvas;
 
 /* ---------------- placing (catalog / sets / paste) ---------------- */
 tools.startPlacing = (list, o) => {
-  tools.cancel(); if (ui.step !== 'place' && !(GP.wiz && GP.wiz.on)) ui.setStep('place'); if (ui.tool !== 'select') ui.setTool('select'); ui.clearSel();
+  tools.cancel(); if (ui.step !== 'place' && !(GP.wiz && GP.wiz.on) && !(o && o.stay)) ui.setStep('place'); if (ui.tool !== 'select') ui.setTool('select'); ui.clearSel();
   ui.placing = { list: list.map(q => Object.assign({ rel: [0, 0, 0] }, q)), rot: 0, relK: 0, x: null, z: null, keep: !!(o && o.keep), label: o && o.label };
+  if (ui.renderTools) ui.renderTools();
   GP.S.setGhost(ui.placing.list.map(q => q.it)); canvas().style.cursor = 'crosshair'; ui.setHint(); GP.emit('placing');
 };
 function ghostUpdate(cx, cy, alt) { if (ui.placing && GP.S.ghost) ghostAt(GP.S.floorAt(cx, cy), alt); }

diff --git a/js/core.js b/js/core.js
@@ -2,7 +2,7 @@
 (function () {
 'use strict';
 const GP = window.GP = window.GP || {};
-GP.VERSION = '2.23.0';
+GP.VERSION = '2.24.0';
 GP.APP_SUB = '짐 스튜디오'; GP.APP_NAME = 'GOFIT ' + GP.APP_SUB;      // the app's name: the top bar, window title, menus (manifest.webmanifest and index.html <title> say it too);
 GP.errors = [];
 window.addEventListener('error', e => { GP.errors.push(String(e.message || e)); });

diff --git a/사용설명서.md b/사용설명서.md
@@ -64,7 +64,7 @@
     - 「문 · 창문」 도구로 곡선 벽 위에 마우스를 올리면 파란 막대(2.4m)가 미리 보이고, 누르면 그 자리만 통유리가 돼요. 이미 유리인 곳은 빨갛게 보이고, 누르면 벽으로 돌아와요.
     - 유리를 넣으면 그 곡선이 선택되고, 도면에서 유리 양 끝의 **주황 막대**를 끌어 범위를 바꾸고, 가운데 파란 이름표(「유리 2.40 m」)를 끌어 통째로 옮겨요(`Ctrl` 1cm · `Alt` 자유 · 곡선 끝 가까이에서는 끝에 붙어요).
     - 오른쪽 설명 창(곡선 벽을 누르거나 곡선 길이 숫자를 눌렀을 때): 벽 / 유리 색(투명 · 스모크 · 브론즈 · 불투명), 「곡선 전체 / 일부만」, 유리마다 시작 ~ 끝 거리(m, 곡선 시작점에서 잰 거리) 입력, 「+ 유리 구간 추가」, ✕로 그 유리 빼기.
-    - **유리 칸**: 세로 기둥 간격을 바꿔요(기본 2.0m, 막대는 10m까지 · 숫자로는 12m까지, 왼쪽 끝 = 나누지 않음). 옆 숫자(「2.0 m마다」)를 누르면 직접 쳐서 넣어요. 끄는 동안 도면의 기둥 표시와 3D가 바로 바뀌어요. 유리 가벽에도 같은 설정이 있어요.
+    - **유리 칸**: 세로 기둥 간격을 바꿔요(기본 2.0m, 막대는 10m까지 · 숫자로는 12m까지, 왼쪽 끝 = 안 나눔). 옆 숫자(「2.0 m」)를 누르면 직접 쳐서 넣어요. 끄는 동안 도면의 기둥 표시와 3D가 바로 바뀌어요. 유리 가벽에도 같은 설정이 있어요.
     - **유리 높이**: 기본은 천장까지예요. 공간 높이보다 낮게 하면(예: 공간 2.8m, 유리 2.4m) 유리 위로 천장까지(0.4m)는 벽이 되고, 벽 마감도 그대로 이어져요.
     - 3D에서는 벽 두께만큼 바닥 틀과 천장 틀이 들어가서 유리 아래 · 위로 빈틈이 보이지 않아요.
   - 그룹: 그룹째 고르면 줄 맞추기 · 간격 맞추기 · 곡선으로 놓기에서 그룹이 한 덩어리로 움직여요(그룹 안 기구끼리의 자리는 그대로). 그룹 안 기구끼리 맞추려면 Ctrl+클릭으로 그 기구들만 고르세요.
@@ -84,6 +84,7 @@
 
 - **공간 만들기**: 평수로, 모양 템플릿(L자 · 사선 등), 실측 입력(벽 길이를 차례로) 중에서 골라요.
 - **고객 도면 대고 그리기**: 평면도 사진이나 캐드 파일(DXF)을 올리면 공간 위에 비쳐 보여요. 「진하기」로 연하게 하고, 「밑그림 잠깐 숨기기」로 잠시 끌 수 있어요. 가장 쉬운 순서는 ① 도면 올리기 → ② 「펜으로 따라 그리기」로 모서리를 차례로 클릭(휜 벽은 누른 채 끌기) → ③ 확실히 아는 벽 하나의 길이 숫자를 눌러 실제 길이 입력 → 「전체를 같은 비율로」예요.
+- **기둥**: 공간 단계의 「기둥」 도구(도구 막대)나 「기둥」 접기에서 크기(40 · 50 · 60 · 80각)를 고르고 「기둥 넣기」 → 도면을 눌러 놓아요(`Shift`+클릭 여러 개, `Esc` 끝). 놓은 기둥을 누르면 크기 · 색 · 모서리 보호대 · 걸레받이를 고쳐요. 접기 안 목록에서 고르거나 지울 수 있어요. 기구 목록에서는 빠졌어요(견적에도 안 들어가요).
 - **벽 · 바닥 · 천장 마감**: 공간 단계 「벽 · 바닥 · 천장 마감」에서 바닥 21종(스포츠 고무 블랙 · 그레이 칩 · 블루 칩, 원목 · 파케이 · 라미네이트, 콘크리트, 타일 · 석재 등), 벽 21종(미장 · 벽돌 · 석재 · 판재 · 합판 · 골강판 · 클라이밍 월 등), 천장 8종(흰 도장, 텍스 600각, 석고보드, 노출 천장 블랙, 노출 콘크리트, 우드 루버, 타공 금속판, 바리솔)을 골라요. 3D에서 보여요(천장은 안쪽에서 볼 때 · 걸어 보기).
   - 각각 아래 「색감 조절」에서 밝기 · 대비 · 채도 · 색감(차갑게 ↔ 따뜻하게)을 바꿀 수 있어요. 「처음대로」로 되돌려요. 바닥 조절은 도면의 연한 바닥 무늬에도 들어가요.
 - **조명**: 공간 단계 「조명」에서 천장 조명을 골라요(3D에 보여요).
@@ -159,13 +160,14 @@
 ## 7. 3D 보기
 
 - 위쪽 「3D 보기」를 눌러요. 3D에서도 기구를 놓고 옮길 수 있어요(`R` 회전, `Del` 삭제).
+- **키보드로 움직이기**(걸어보기가 아니어도): `W` `A` `S` `D`나 방향키로 바라보는 방향 앞뒤 · 좌우로, `Q`/`E`로 아래 · 위로 움직여요. `Shift`를 누르면 빨라요. 마우스로 끌면 돌리기, 오른쪽 끌기 옮기기, 휠 확대 · 축소는 그대로예요. 기구를 골라 둔 동안에는 방향키가 기구를 옮기고 `Q`/`E`가 기구를 돌려요(`Esc`로 선택을 풀면 다시 화면이 움직여요). 고객용 3D 보기에서도 돼요.
 - **화질**(아래 막대 「화질 · 기본 ▾」, 블렌더의 렌더 엔진 고르기처럼): 빠름(그림자 없이 가볍게 · 느린 PC) · 기본 · 고품질(더 선명하고 그림자가 곱고, 안에서 보면 조명이 바닥과 벽을 그 색으로 비춰요 · 그래픽 성능이 좋은 PC). 이 기기에만 저장돼요.
 - 카메라 쪽 벽이 흐려질 때 통유리도 같이 흐려져서 안이 잘 보여요.
 - 위에서 내려다볼 때는 천장과 조명이 안 보여서 배치가 가려지지 않아요. 안(천장 아래)에서 보면 천장과 조명(공간 단계 「조명」에서 고른 것)이 보여요.
 - **3D 배경 · 바깥**(공간 단계): 건물 밖으로 보이는 하늘과 바닥을 골라요. 3D 보기 · 걸어보기 · 제안서 3D 그림에 들어가요.
   - 하늘: 스튜디오(지금처럼 밝은 단색) · 맑은 하늘 · 노을 · 밤, 실사 360° 사진 4종(도시 낮 · 공원 · 저녁 도시 · 밤 거리, Poly Haven CC0). 하늘에 맞춰 햇빛 색과 밝기도 바뀌어요.
   - 실사 배경은 「배경 돌리기」로 창밖에 보일 방향을 맞춰요.
-  - 건물 밖 바닥: 없음 · 보도블록 · 벽돌 보도 · 아스팔트 · 잔디. 멀어질수록 배경 사진에 자연스럽게 섞여요.
+  - 건물 밖 바닥 14종: 보도블록 · 벽돌 보도 · 패턴 보도 · 돌길 · 화강석 · 콘크리트 · 아스팔트 · 자갈 · 모래 · 흙 · 숲길 · 잔디 · 마른 잔디 · 눈 · 나무 데크 (또는 없음). 멀어질수록 배경 사진에 자연스럽게 섞여요.
 - **걸어보기**: 아래 막대의 「걸어보기」를 누르면 사람 눈높이로 매장 안을 걸어 다녀요.
   - PC: `W` `A` `S` `D`나 방향키로 걷고, 마우스를 끄는 방향으로 시선이 돌아가요. `Esc`로 끝나요.
   - 휴대폰·태블릿: 왼쪽 아래 동그라미를 밀어서 걷고, 화면을 밀어서 둘러봐요.
